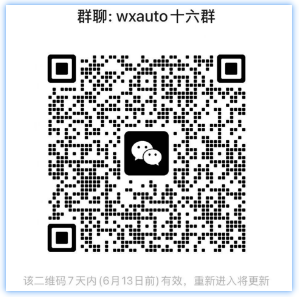
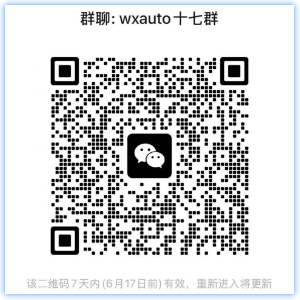
更新群二维码

diff --git a/public/docs/class/message/index.html b/public/docs/class/message/index.html
@@ -30,8 +30,8 @@ other：其他消息
 
 
 
-而self和friend又可以跟消息类型所组合，所以所有消息类别如下："><meta property="og:type" content="article"><meta property="og:url" content="https://example.org/docs/class/message/"><meta property="article:section" content="docs"><meta property="article:modified_time" content="2025-06-08T18:06:40+08:00"><meta itemprop=name content="Message类"><meta itemprop=description content="消息类中，有两个固定属性：
-attr：消息属性，即消息的来源属性 system：系统消息 time：时间消息 tickle：拍一拍消息 self：自己发送的消息 friend：好友消息 other：其他消息 type：消息类型，即消息的内容属性 text：文本消息 quote：引用消息 voice：语音消息 image：图片消息 video：视频消息 file：文件消息 location：位置消息 link：链接消息 emotion：表情消息 merge：合并转发消息 personal_card：个人名片消息 note: 笔记消息 other：其他消息 而self和friend又可以跟消息类型所组合，所以所有消息类别如下："><meta itemprop=dateModified content="2025-06-08T18:06:40+08:00"><meta itemprop=wordCount content="3626"><meta name=twitter:card content="summary"><meta name=twitter:title content="Message类"><meta name=twitter:description content="消息类中，有两个固定属性：
+而self和friend又可以跟消息类型所组合，所以所有消息类别如下："><meta property="og:type" content="article"><meta property="og:url" content="https://example.org/docs/class/message/"><meta property="article:section" content="docs"><meta property="article:modified_time" content="2025-06-09T22:31:29+08:00"><meta itemprop=name content="Message类"><meta itemprop=description content="消息类中，有两个固定属性：
+attr：消息属性，即消息的来源属性 system：系统消息 time：时间消息 tickle：拍一拍消息 self：自己发送的消息 friend：好友消息 other：其他消息 type：消息类型，即消息的内容属性 text：文本消息 quote：引用消息 voice：语音消息 image：图片消息 video：视频消息 file：文件消息 location：位置消息 link：链接消息 emotion：表情消息 merge：合并转发消息 personal_card：个人名片消息 note: 笔记消息 other：其他消息 而self和friend又可以跟消息类型所组合，所以所有消息类别如下："><meta itemprop=dateModified content="2025-06-09T22:31:29+08:00"><meta itemprop=wordCount content="3626"><meta name=twitter:card content="summary"><meta name=twitter:title content="Message类"><meta name=twitter:description content="消息类中，有两个固定属性：
 attr：消息属性，即消息的来源属性 system：系统消息 time：时间消息 tickle：拍一拍消息 self：自己发送的消息 friend：好友消息 other：其他消息 type：消息类型，即消息的内容属性 text：文本消息 quote：引用消息 voice：语音消息 image：图片消息 video：视频消息 file：文件消息 location：位置消息 link：链接消息 emotion：表情消息 merge：合并转发消息 personal_card：个人名片消息 note: 笔记消息 other：其他消息 而self和friend又可以跟消息类型所组合，所以所有消息类别如下："><link rel=preload href=/css/compiled/main.min.fa546a2337cf5addf063cc249aa497b1ece32d6b9c98e80c3004310df230dc08.css as=style integrity="sha256-+lRqIzfPWt3wY8wkmqSXsezjLWucmOgMMAQxDfIw3Ag="><link href=/css/compiled/main.min.fa546a2337cf5addf063cc249aa497b1ece32d6b9c98e80c3004310df230dc08.css rel=stylesheet integrity="sha256-+lRqIzfPWt3wY8wkmqSXsezjLWucmOgMMAQxDfIw3Ag="><link href=/css/custom.min.e3b0c44298fc1c149afbf4c8996fb92427ae41e4649b934ca495991b7852b855.css rel=stylesheet integrity="sha256-47DEQpj8HBSa+/TImW+5JCeuQeRkm5NMpJWZG3hSuFU="><link rel=preconnect href=https://www.googletagmanager.com crossorigin><script async src="https://www.googletagmanager.com/gtag/js?id=G-YTPXPYKV40"></script><script>window.dataLayer=window.dataLayer||[];function gtag(){dataLayer.push(arguments)}gtag("js",new Date),gtag("config","G-YTPXPYKV40")</script><script>const defaultTheme="system",setDarkTheme=()=>{document.documentElement.classList.add("dark"),document.documentElement.style.colorScheme="dark"},setLightTheme=()=>{document.documentElement.classList.remove("dark"),document.documentElement.style.colorScheme="light"};"color-theme"in localStorage?localStorage.getItem("color-theme")==="dark"?setDarkTheme():setLightTheme():(defaultTheme==="dark"?setDarkTheme():setLightTheme(),defaultTheme==="system"&&(window.matchMedia("(prefers-color-scheme: dark)").matches?setDarkTheme():setLightTheme()))</script></head><body dir=ltr><div class="nav-container hx:sticky hx:top-0 hx:z-20 hx:w-full hx:bg-transparent hx:print:hidden"><div class="nav-container-blur hx:pointer-events-none hx:absolute hx:z-[-1] hx:h-full hx:w-full hx:bg-white hx:dark:bg-dark hx:shadow-[0_2px_4px_rgba(0,0,0,.02),0_1px_0_rgba(0,0,0,.06)] hx:contrast-more:shadow-[0_0_0_1px_#000] hx:dark:shadow-[0_-1px_0_rgba(255,255,255,.1)_inset] hx:contrast-more:dark:shadow-[0_0_0_1px_#fff]"></div><nav class="hx:mx-auto hx:flex hx:items-center hx:justify-end hx:gap-2 hx:h-16 hx:px-6 hx:max-w-[90rem]"><a class="hx:flex hx:items-center hx:hover:opacity-75 hx:ltr:mr-auto hx:rtl:ml-auto" href=/><img class="hx:mr-2 hx:block hx:dark:hidden" src=/images/wxauto_logo.svg alt=wxauto height=20 width=20>
 <img class="hx:mr-2 hx:hidden hx:dark:block" src=/images/wxauto_logo_dark.svg alt=wxauto height=20 width=20>
 <span class="hx:mr-2 hx:font-extrabold hx:inline hx:select-none" title=wxauto>wxauto</span>
